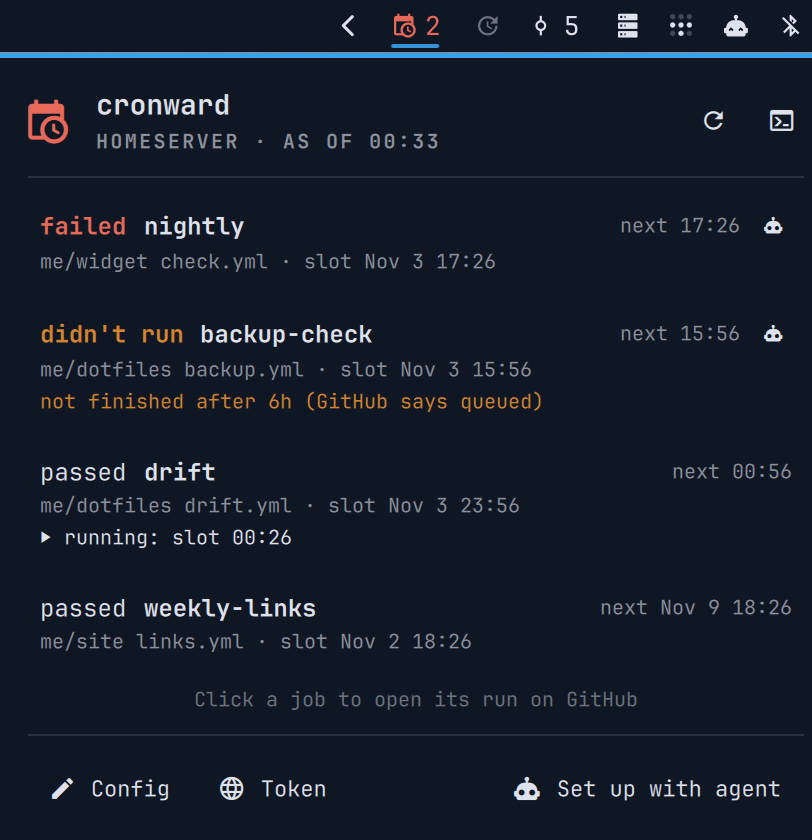
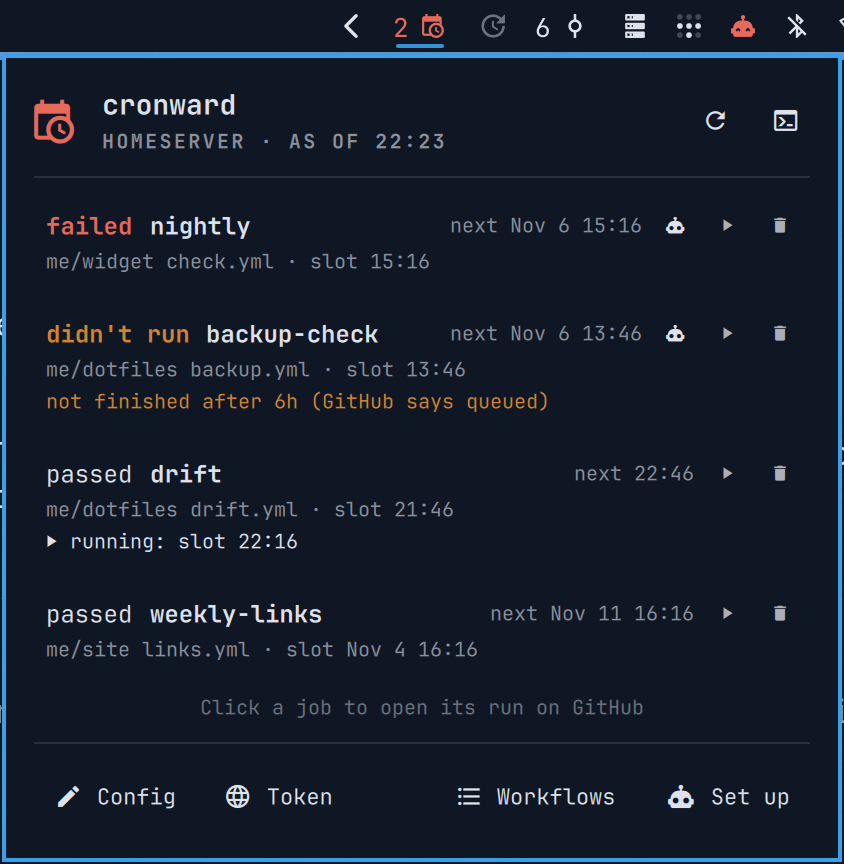
README: new previews of the jobs and the Workflows page
preview.png shows the jobs with the Run now and Remove buttons, and
docs/workflows.png the Workflows page with a repo open: its workflows'
add and agent buttons, the on-cronward marks and Remove account. Both
from the demo's fictional fixtures.

diff --git a/README.md b/README.md
@@ -4,7 +4,7 @@
 
 <p align="center"><a href="https://github.com/tcballard/omarchy-badges"><img alt="Built for Omarchy: Plugin" height="20" src="https://raw.githubusercontent.com/tcballard/omarchy-badges/75975e5b5bf75e7ede3764bcd2950046f7abfe2c/badges/v1/omarchy-plugin.svg"></a></p>
 
-<p align="center"><img alt="The cronward popup for the main machine homeserver: nightly failed in red, backup-check didn't run in orange because it had not finished after 6 hours, drift passed with a run going, and weekly-links passed. The failed and didn't-run jobs each have an agent button. The bar icon above is red with the count 2" src="preview.png" width="400"></p>
+<p align="center"><img alt="The cronward popup for the main machine homeserver: nightly failed in red, backup-check didn't run in orange because it had not finished after 6 hours, drift passed with a run going, and weekly-links passed. The failed and didn't-run jobs each have an agent button, and every job has Run now and Remove buttons. The bar icon above is red with the count 2" src="preview.png" width="400"></p>
 
 [cronward](https://github.com/Frestina/cronward) starts your workflows
 from a Linux machine you own, follows each run, and keeps three answers
@@ -55,6 +55,8 @@ chosen, so a click or Enter alone never does anything:
 
 After either, the popup reads the status again (on a laptop, it fetches it
 first).
+
+<p align="center"><img alt="The Workflows page for homeserver: the account personal (me on GitHub) with the repos dotfiles and widget, each with 1 on cronward; widget is open, showing check.yml on cronward as nightly, deploy.yml turned off in GitHub, and release.yml, each with an add button and an agent button; a folded card of 2 repos with no workflows, and a dimmed Remove account. Below, the account work (acme on GitHub) with the repo api, 2 repos with no workflows and Remove account. The footer has Add account, Token and Set up with agent" src="docs/workflows.png" width="400"></p>
 
 **Workflows**, at the bottom of the popup, lists the repos and workflows
 each account's token reaches, from `cronward workflows --json` on the main

diff --git a/docs/DEVELOPMENT.md b/docs/DEVELOPMENT.md
@@ -32,7 +32,10 @@ answers it with Esc, and `run-started`, `run-refused`, `remove-done` and
 account `work` on the picker, and `account-removed` and `account-old` answer
 yes, from a current cronward and an older one. With no state it
 writes `preview.png` from `mixed`; check that it shows only fictional names
-before committing it.
+before committing it. Capture the popup and the bar icon above it, 422
+logical pixels wide from its left edge less one. `docs/workflows.png` is
+`workflows-list` with the repo `widget` open: start `openRepos` as
+`{"personal/me/widget": true}` for the capture, then put it back.
 
 Over IPC: `qs ipc call io.github.frestina.cronward open|close|toggle|refresh|check|workflows`,
 `add ACCOUNT OWNER/REPO FILE` for the add form, and `askRun JOB` or
